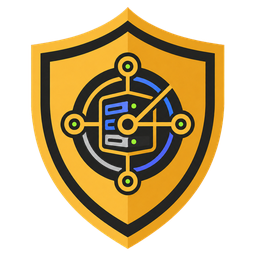
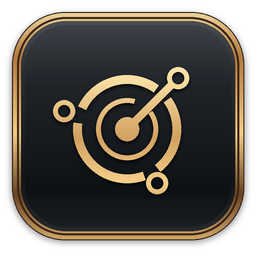
Prepare v1.28.0-beta.1: Marketplace quick start and Nodarion branding

diff --git a/custom_components/nodarion/frontend/nodarion-panel.js b/custom_components/nodarion/frontend/nodarion-panel.js
@@ -1,5 +1,5 @@
-import { internetStatusFor } from "./internet-status.mjs?v=1.29.31";
-import { NodarionStateClient } from "./nodarion-state.mjs?v=1.29.31";
+import { internetStatusFor } from "./internet-status.mjs?v=1.29.32";
+import { NodarionStateClient } from "./nodarion-state.mjs?v=1.29.32";
 
 const esc = (value) =>
   String(value ?? "")
@@ -1202,15 +1202,12 @@ class EngelsoftNodarionPanel extends HTMLElement {
         .connection-status.open ha-icon:last-child { transform:rotate(180deg); }
         .version-info { color:#73958a; font-size:11px; margin-top:4px; min-height:14px; }
         .logo {
-          width:58px; height:58px; display:grid; place-items:center; border-radius:18px;
-          background:linear-gradient(145deg, rgba(85,242,162,.22), rgba(80,215,255,.08));
-          border:1px solid rgba(85,242,162,.3); box-shadow:0 0 40px rgba(85,242,162,.12);
-          text-decoration:none; cursor:pointer;
-          transition:transform .18s ease,border-color .18s ease,box-shadow .18s ease;
+          width:58px; height:58px; flex:none; display:block; border-radius:18px;
+          transition:transform .18s ease;
         }
-        .logo:hover { transform:translateY(-2px); border-color:rgba(204,181,123,.7); box-shadow:0 18px 38px rgba(221,139,42,.28),inset 0 1px rgba(255,255,255,.42); }
+        .logo:hover { transform:translateY(-2px); }
         .logo:focus-visible { outline:3px solid color-mix(in srgb,var(--ns-green) 55%,transparent); outline-offset:3px; }
-        .logo ha-icon { color:var(--ns-green); --mdc-icon-size:31px; }
+        .logo img { display:block; width:100%; height:100%; }
         h1 { margin:0; font-size:clamp(26px,3vw,38px); letter-spacing:-1.5px; font-weight:720; }
         .eyebrow { color:var(--ns-cyan); font-size:10px; letter-spacing:2.8px; font-weight:750; text-transform:uppercase; margin-bottom:5px; }
         .scan {
@@ -2040,14 +2037,6 @@ class EngelsoftNodarionPanel extends HTMLElement {
           border-bottom:1px solid rgba(255,255,255,.035);
           padding-bottom:20px;
         }
-        .logo {
-          width:52px; height:52px; border-radius:16px;
-          color:#2b2115;
-          background:linear-gradient(145deg,#f0d39a,#cfa45d);
-          border-color:rgba(255,229,180,.4);
-          box-shadow:0 14px 30px rgba(221,139,42,.20), inset 0 1px rgba(255,255,255,.42);
-        }
-        .logo ha-icon { color:#342516; --mdc-icon-size:27px; }
         .version-info, .metric-note, .entity, .entity-id-link, .status-time,
         .log-date, .alert-time { color:#aaa49a; }
         .scan {
@@ -2750,7 +2739,6 @@ class EngelsoftNodarionPanel extends HTMLElement {
           .connection-status span { overflow:hidden; text-overflow:ellipsis; }
           .brand { min-width:0; gap:11px; }
           .logo { width:46px; height:46px; border-radius:14px; }
-          .logo ha-icon { --mdc-icon-size:25px; }
           h1 { font-size:27px; }
           .version-info { font-size:9px; }
           .scan { flex:0 0 44px; width:44px; height:44px; justify-content:center; padding:0; }
@@ -3251,7 +3239,7 @@ class EngelsoftNodarionPanel extends HTMLElement {
         <header>
           <div class="brand">
             <button class="ha-menu" type="button" title="Home-Assistant-Menü öffnen" aria-label="Home-Assistant-Menü öffnen"><ha-icon icon="mdi:menu"></ha-icon></button>
-            <a class="logo" href="https://github.com/engelsofta/nodarion" target="_blank" rel="noopener noreferrer" title="Nodarion auf GitHub öffnen" aria-label="Nodarion auf GitHub öffnen"><ha-icon icon="mdi:shield-search"></ha-icon></a>
+            <a class="logo" href="https://github.com/engelsofta/nodarion" target="_blank" rel="noopener noreferrer" title="Nodarion auf GitHub öffnen" aria-label="Nodarion auf GitHub öffnen"><img src="/engelsoft_nodarion_icon.png" alt=""></a>
             <div>
               <div class="eyebrow">Engelsoft</div>
               <h1>Nodarion</h1>
@@ -4200,6 +4188,8 @@ class EngelsoftNodarionPanel extends HTMLElement {
       this._renderGuest();
       this._renderCards();
       this._renderMesh();
+    } else if (statusChanged && entities.length === 0) {
+      this._renderCards();
     }
     if (eventsChanged) this._renderLog();
     if (statusChanged) this._renderDnsLive();
@@ -4496,6 +4486,26 @@ class EngelsoftNodarionPanel extends HTMLElement {
       attr.guest_network ? "Gast Gastzugang guest" : "",
     ].filter(value => value != null).join(" ").toLocaleLowerCase("de-DE");
     return terms.every(term => haystack.includes(term));
+  }
+
+  _emptyScanMessage() {
+    const german = panelLocale === "de";
+    const scanner = this._monitor.connection_status?.scanner;
+    if (!scanner) {
+      return german ? "Scanstatus wird geladen …" : "Loading scan status…";
+    }
+    if (!scanner.last_checked) {
+      return german
+        ? "<strong>Erster Netzwerkscan läuft …</strong>Je nach Netzgröße kann das etwas dauern."
+        : "<strong>First network scan in progress…</strong>This can take a while, depending on the network size.";
+    }
+    const title = scanner.available
+      ? (german ? "Keine Geräte gefunden" : "No devices found")
+      : (german ? "Netzwerkscan fehlgeschlagen" : "Network scan failed");
+    const hint = german
+      ? "Prüfe unter Einstellungen → Allgemein das überwachte IPv4-Netz und ob Home Assistant es erreichen kann. Wähle danach „Jetzt scannen“."
+      : "Check the monitored IPv4 network under Settings → General and make sure Home Assistant can reach it. Then select Scan now.";
+    return `<strong>${title}</strong>${hint}`;
   }
 
   _renderCards() {
@@ -4905,7 +4915,9 @@ class EngelsoftNodarionPanel extends HTMLElement {
     const filterValueNames = { on:"Online", off:"Offline", guest:"Gastzugang", onboarding:"Einrichtungsbereich", assigned:"Regulärer Bereich", unknown:"Einrichtung deaktiviert", monitored:"Überwacht", notify:"Offline-Meldung", presence:"Anwesenheit", none:"Keine Funktion", denied:"Gesperrt", pending:"Freigabe ausstehend", error:"Freigabe fehlgeschlagen", unchecked:"Noch nicht geprüft", unmanaged:"Nicht verwaltet", infrastructure:"Netzwerkinfrastruktur", learning:"Lernphase", trusted:"Vertrauenswürdig", allowed:"Freigegeben", ...sourceLabels, ...Object.fromEntries([...segmentCounts.values()].map((segment) => [segment.id, segment.vlanId ? `${segment.name} · VLAN ${segment.vlanId}` : segment.name])) };
     const activeFilters = Object.entries(this._columnFilters).filter(([, value]) => value);
     const filterChips = activeFilters.length ? `<div class="filter-chips" role="status" aria-label="Aktive Filter">${activeFilters.map(([key, value]) => `<button class="filter-chip" type="button" data-clear-column-filter="${esc(key)}" aria-label="Filter ${esc(filterNames[key] || key)} entfernen"><span>${esc(filterNames[key] || key)}: ${esc(filterValueNames[value] || value)}</span><ha-icon icon="mdi:close"></ha-icon></button>`).join("")}<button class="filter-reset" type="button" data-clear-all-filters>Alle Filter zurücksetzen</button></div>` : "";
-    const emptyRow = `<tr><td colspan="14"><div class="empty"><ha-icon icon="mdi:filter-off-outline"></ha-icon><strong>Keine passenden Geräte</strong>Filter ändern oder leeren.</div></td></tr>`;
+    const emptyRow = `<tr><td colspan="14"><div class="empty" role="status">${allEntities.length
+      ? '<ha-icon icon="mdi:filter-off-outline"></ha-icon><strong>Keine passenden Geräte</strong>Filter ändern oder leeren.'
+      : this._emptyScanMessage()}</div></td></tr>`;
     const mobileFilterCount = activeFilters.filter(([key]) => key !== "search").length;
     const mobileFilter = (label, control) => `<div class="mobile-filter-field"><span>${esc(label)}</span>${control}</div>`;
     const meshFilter = customFilter("mesh", countedOptions(allEntities.map(entity => entity.attributes.access_point).filter(Boolean), "Alle Mesh-Punkte", "mdi:access-point"));

diff --git a/tests/test_config_flow_sections.py b/tests/test_config_flow_sections.py
@@ -62,6 +62,7 @@ def load_flow():
             SelectSelectorConfig=lambda **kwargs: kwargs,
         ),
         "async_validate_connections": AsyncMock(),
+        "async_get_adapters": AsyncMock(return_value=[]),
         "InvalidAuthError": type("InvalidAuthError", (Exception,), {}),
         "CannotConnectError": type("CannotConnectError", (Exception,), {}),
     })
@@ -159,14 +160,33 @@ class SectionFlowTests(unittest.IsolatedAsyncioTestCase):
     async def test_new_setup_uses_existing_defaults_and_creates_only_on_finish(self):
         flow = self.ns["ConfigFlow"]()
         flow.hass = self.hass
+        self.ns["async_get_adapters"].return_value = [
+            {"enabled": True, "ipv4": [{"address": "192.0.2.12", "network_prefix": 24}]},
+            {"enabled": False, "ipv4": [{"address": "198.51.100.8", "network_prefix": 24}]},
+        ]
         first = await flow.async_step_user()
         self.assertEqual(first["step_id"], "network")
+        self.assertEqual(first["data_schema"]({})["network"], "192.0.2.0/24")
         result = await flow.async_step_network({"network": "192.0.2.0/24"})
         self.assertEqual(result["type"], "menu")
         saved = await flow.async_step_finish({})
         self.assertEqual(saved["type"], "create_entry")
         self.assertEqual(saved["data"]["ports"], self.ns["DEFAULT_PORTS"])
         self.assertFalse(saved["data"]["fritz_enabled"])
+
+    async def test_new_setup_requires_manual_network_when_detection_is_ambiguous(self):
+        flow = self.ns["ConfigFlow"]()
+        flow.hass = self.hass
+        self.ns["async_get_adapters"].return_value = [
+            {"enabled": True, "ipv4": [
+                {"address": "192.0.2.12", "network_prefix": 24},
+                {"address": "198.51.100.8", "network_prefix": 24},
+            ]},
+        ]
+        first = await flow.async_step_user()
+        self.assertEqual(first["data_schema"]({})["network"], "")
+        invalid = await flow.async_step_user({"network": ""})
+        self.assertEqual(invalid["errors"], {"network": "invalid_network"})
 
     async def test_reconfigure_and_reauth_update_shadowing_options(self):
         for mode in ("reconfigure", "reauth"):

diff --git a/custom_components/nodarion/config_flow.py b/custom_components/nodarion/config_flow.py
@@ -8,6 +8,7 @@ from typing import Any
 import voluptuous as vol
 
 from homeassistant import config_entries
+from homeassistant.components.network import async_get_adapters
 from homeassistant.core import callback
 from homeassistant.helpers import selector
 
@@ -373,6 +374,24 @@ class ConfigFlow(SectionFlow, config_entries.ConfigFlow, domain=DOMAIN):
     async def async_step_user(self, user_input=None):
         if not hasattr(self, "_values"):
             self._start("user")
+            candidates = set()
+            for adapter in await async_get_adapters(self.hass):
+                if not adapter["enabled"]:
+                    continue
+                for ipv4 in adapter["ipv4"]:
+                    address = ipaddress.IPv4Interface(
+                        f"{ipv4['address']}/{ipv4['network_prefix']}"
+                    )
+                    if (
+                        20 <= address.network.prefixlen <= 30
+                        and not address.ip.is_loopback
+                        and not address.ip.is_link_local
+                    ):
+                        candidates.add(address.network)
+            # Require an explicit subnet when Home Assistant sees several LANs.
+            self._values[CONF_NETWORK] = (
+                str(candidates.pop()) if len(candidates) == 1 else ""
+            )
         return await self.async_step_network(user_input)
 
     async def async_step_reconfigure(self, user_input=None):

diff --git a/custom_components/nodarion/__init__.py b/custom_components/nodarion/__init__.py
@@ -123,9 +123,16 @@ async def _async_register_panel(hass: HomeAssistant) -> None:
         return
 
     if not hass.data.get(static_marker):
-        panel_dir = Path(__file__).parent / "frontend"
+        integration_dir = Path(__file__).parent
         await hass.http.async_register_static_paths(
-            [StaticPathConfig(_STATIC_URL, str(panel_dir), False)]
+            [
+                StaticPathConfig(_STATIC_URL, str(integration_dir / "frontend"), False),
+                StaticPathConfig(
+                    f"{_STATIC_URL}_icon.png",
+                    str(integration_dir / "brand" / "icon.png"),
+                    False,
+                ),
+            ]
         )
         hass.data[static_marker] = True
 

diff --git a/custom_components/nodarion/const.py b/custom_components/nodarion/const.py
@@ -4,8 +4,8 @@ DOMAIN = "nodarion"
 PLATFORMS = ["binary_sensor", "sensor", "switch"]
 PANEL_URL = "nodarion"
 PANEL_TITLE = "Engelsoft Nodarion"
-INTEGRATION_VERSION = "1.27.19"
-FRONTEND_VERSION = "1.29.31"
+INTEGRATION_VERSION = "1.28.0-beta.1"
+FRONTEND_VERSION = "1.29.32"
 
 CONF_FRITZ_ENABLED = "fritz_enabled"
 CONF_FRITZ_HOST = "fritz_host"

diff --git a/README.de.md b/README.de.md
@@ -1,5 +1,8 @@
 <div align="center">
-  <img src="https://raw.githubusercontent.com/engelsofta/nodarion/main/custom_components/nodarion/brand/logo.png" alt="Engelsoft Nodarion" width="600">
+  <picture>
+    <source media="(prefers-color-scheme: dark)" srcset="https://raw.githubusercontent.com/engelsofta/nodarion/main/custom_components/nodarion/brand/dark_logo@2x.png">
+    <img src="https://raw.githubusercontent.com/engelsofta/nodarion/main/custom_components/nodarion/brand/logo@2x.png" alt="Engelsoft Nodarion" width="600">
+  </picture>
 </div>
 
 <p align="center">
@@ -12,8 +15,6 @@
   <a href="https://github.com/engelsofta/nodarion/releases/latest"><img src="https://img.shields.io/github/v/release/engelsofta/nodarion?label=Version&color=d4a33f&cacheSeconds=300&release=1.27.0" alt="Aktuelle Version"></a>
   <a href="https://github.com/engelsofta/nodarion/releases"><img src="https://img.shields.io/github/downloads/engelsofta/nodarion/total?label=Downloads&color=d4a33f" alt="Downloads aller Releases"></a>
   <a href="https://www.home-assistant.io/"><img src="https://img.shields.io/badge/Home%20Assistant-Custom-41BDF5?logo=homeassistant&logoColor=white" alt="Home Assistant Custom Integration"></a>
-  <a href="https://hacs.xyz/"><img src="https://img.shields.io/badge/HACS-Available-ED7D31" alt="In HACS verfügbar"></a>
-  <a href="https://github.com/engelsofta/nodarion/actions/workflows/hacs.yml"><img src="https://github.com/engelsofta/nodarion/actions/workflows/hacs.yml/badge.svg" alt="HACS-Validierung"></a>
   <a href="https://github.com/engelsofta/nodarion/actions/workflows/hassfest.yml"><img src="https://github.com/engelsofta/nodarion/actions/workflows/hassfest.yml/badge.svg" alt="Hassfest"></a>
 </p>
 
@@ -135,20 +136,15 @@ gelten auch im Nodarion-Panel; zusätzliche Netze und VLANs werden weiterhin dor
 
 ## Installation
 
-### HACS
+### Schnellstart im Home Assistant Marketplace
 
-Nodarion ist im Standardkatalog von HACS enthalten. Ein benutzerdefiniertes Repository ist nicht erforderlich.
+[**Nodarion im Marketplace öffnen**](https://my.home-assistant.io/redirect/marketplace_repository/?owner=engelsofta&repository=nodarion&category=integration)
 
-<a href="https://my.home-assistant.io/redirect/hacs_repository/?owner=engelsofta&repository=nodarion&category=integration">
-  <img src="https://my.home-assistant.io/badges/hacs_repository.svg" alt="Nodarion in HACS öffnen">
-</a>
-
-1. HACS öffnen und nach **Nodarion** suchen.
-2. **Engelsoft Nodarion** öffnen und herunterladen.
-3. Home Assistant neu starten.
-4. Unter **Einstellungen → Geräte & Dienste → Integration hinzufügen** nach **Engelsoft Nodarion** suchen.
-5. Das lokale IPv4-Netz als CIDR eintragen, zum Beispiel `192.168.178.0/24`.
-6. Optionale Dienste im Auswahlmenü einrichten und **Speichern & abschließen** wählen.
+1. Ab Home Assistant 2026.11 findest du **Nodarion** unter **Einstellungen → Marketplace**. Öffne den Eintrag und installiere ihn. Falls Home Assistant einen Neustart anfordert, führe ihn durch.
+2. Gehe zu **Einstellungen → Geräte & Dienste → Integration hinzufügen** und wähle **Engelsoft Nodarion**.
+3. Prüfe das vorgeschlagene IPv4-Netz oder trage es selbst ein, zum Beispiel `192.168.178.0/24`. Wähle **Speichern und Scan starten**. FRITZ!Box und AdGuard Home sind optional und lassen sich später hinzufügen.
+4. Öffne **Nodarion** in der Seitenleiste. Der erste Scan läuft automatisch im Hintergrund. Gefundene Geräte erscheinen in der Teilnehmerliste.
+5. Bleibt die Liste leer, prüfe unter **Einstellungen → Allgemein** im Nodarion-Panel das überwachte IPv4-Netz und seine Erreichbarkeit vom Home-Assistant-System aus. Wähle danach **Jetzt scannen**.
 
 ### Manuell
 

diff --git a/README.md b/README.md
@@ -1,5 +1,8 @@
 <div align="center">
-  <img src="https://raw.githubusercontent.com/engelsofta/nodarion/main/custom_components/nodarion/brand/logo.png" alt="Engelsoft Nodarion" width="600">
+  <picture>
+    <source media="(prefers-color-scheme: dark)" srcset="https://raw.githubusercontent.com/engelsofta/nodarion/main/custom_components/nodarion/brand/dark_logo@2x.png">
+    <img src="https://raw.githubusercontent.com/engelsofta/nodarion/main/custom_components/nodarion/brand/logo@2x.png" alt="Engelsoft Nodarion" width="600">
+  </picture>
 </div>
 
 <p align="center">
@@ -12,8 +15,6 @@
   <a href="https://github.com/engelsofta/nodarion/releases/latest"><img src="https://img.shields.io/github/v/release/engelsofta/nodarion?label=Version&color=d4a33f&cacheSeconds=300&release=1.27.0" alt="Latest version"></a>
   <a href="https://github.com/engelsofta/nodarion/releases"><img src="https://img.shields.io/github/downloads/engelsofta/nodarion/total?label=Downloads&color=d4a33f" alt="Total release downloads"></a>
   <a href="https://www.home-assistant.io/"><img src="https://img.shields.io/badge/Home%20Assistant-Custom-41BDF5?logo=homeassistant&logoColor=white" alt="Home Assistant custom integration"></a>
-  <a href="https://hacs.xyz/"><img src="https://img.shields.io/badge/HACS-Available-ED7D31" alt="Available in HACS"></a>
-  <a href="https://github.com/engelsofta/nodarion/actions/workflows/hacs.yml"><img src="https://github.com/engelsofta/nodarion/actions/workflows/hacs.yml/badge.svg" alt="HACS validation"></a>
   <a href="https://github.com/engelsofta/nodarion/actions/workflows/hassfest.yml"><img src="https://github.com/engelsofta/nodarion/actions/workflows/hassfest.yml/badge.svg" alt="Hassfest"></a>
 </p>
 
@@ -121,20 +122,15 @@ are shared with the Nodarion panel; additional networks and VLANs remain in the 
 
 ## Installation
 
-### HACS
+### Quick start in the Home Assistant Marketplace
 
-Nodarion is included in the default HACS catalog. No custom repository is needed.
+[**Open Nodarion in the Marketplace**](https://my.home-assistant.io/redirect/marketplace_repository/?owner=engelsofta&repository=nodarion&category=integration)
 
-<a href="https://my.home-assistant.io/redirect/hacs_repository/?owner=engelsofta&repository=nodarion&category=integration">
-  <img src="https://my.home-assistant.io/badges/hacs_repository.svg" alt="Open Nodarion in HACS">
-</a>
-
-1. Open HACS and search for **Nodarion**.
-2. Open **Engelsoft Nodarion** and download it.
-3. Restart Home Assistant.
-4. Go to **Settings → Devices & services → Add integration** and search for **Engelsoft Nodarion**.
-5. Enter your local IPv4 network in CIDR notation, for example `192.168.178.0/24`.
-6. Configure optional services in the section menu, then select **Save & finish**.
+1. In Home Assistant 2026.11 or later, open **Settings → Marketplace**, search for **Nodarion**, and install it. Restart Home Assistant if prompted.
+2. Go to **Settings → Devices & services → Add integration** and choose **Engelsoft Nodarion**.
+3. Confirm the suggested IPv4 network or enter it manually, for example `192.168.178.0/24`. Select **Save and start scanning**. FRITZ!Box and AdGuard Home are optional and can be added later.
+4. Open **Nodarion** in the sidebar. The first scan starts automatically in the background. Discovered devices appear in the device list.
+5. If the list stays empty, check the monitored IPv4 network in Nodarion under **Settings → General** and make sure Home Assistant can reach it. Then select **Scan now**.
 
 ### Manual installation
 

diff --git a/docs/releases/RELEASE_NOTES_v1.28.0-beta.1.md b/docs/releases/RELEASE_NOTES_v1.28.0-beta.1.md
@@ -1,0 +1,8 @@
+## Marketplace quick start and a new look
+
+- Start with the new [Marketplace quick start](https://github.com/engelsofta/nodarion#installation) in English or [German](https://github.com/engelsofta/nodarion/blob/main/README.de.md#installation).
+- Confirm the suggested IPv4 subnet when Nodarion detects one eligible network, or enter your subnet manually. FRITZ!Box and AdGuard Home are optional.
+- Open Nodarion from the sidebar to see the first scan run in the background. If the scan finds no devices or fails, the panel shows what to check and how to retry.
+- Look for the new gold radar icon in Home Assistant. The GitHub README uses a matching wordmark in light and dark mode.
+
+To try this beta, enable pre-releases for Nodarion in the Home Assistant Marketplace, select **v1.28.0-beta.1**, and restart Home Assistant after updating.

diff --git a/CHANGELOG.md b/CHANGELOG.md
@@ -1,5 +1,14 @@
 # Changelog
 
+## 1.28.0-beta.1 — Marketplace quick start and a new look
+
+- Added a Home Assistant Marketplace quick start to the English and German READMEs.
+- Setup suggests an IPv4 subnet when Home Assistant identifies a single eligible network. FRITZ!Box and AdGuard Home remain optional.
+- The first scan runs in the background. The device list shows when the scan is running, found no devices or failed, with a hint on what to check.
+- Introduced a gold radar icon inspired by Engelsoft Home, matching light and dark GitHub wordmarks, and a matching icon in the Nodarion panel.
+
+Integration **1.28.0-beta.1** · Frontend **1.29.32**
+
 ## 1.27.19 — Tiny button. Big GUI energy. ↗
 
 > Your device links stopped doing squats. The table can finally sit still.
